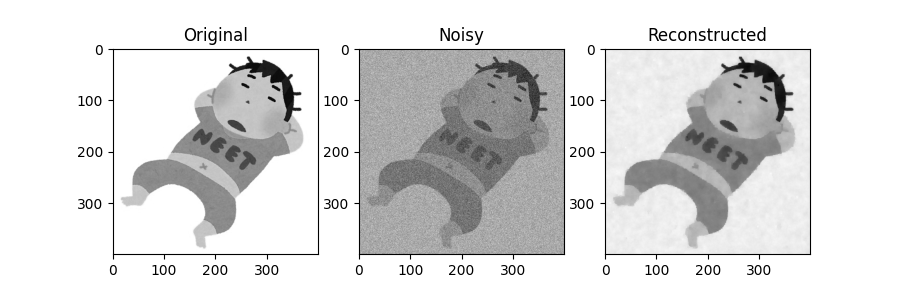
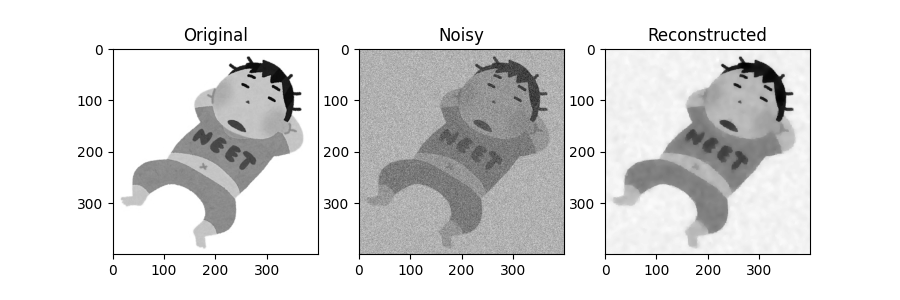
mod various

Changed region(s): [[0.4044, 0.63, 0.4356, 0.66]]

diff --git a/sparse/regularization_tv/tv_reg_splitbregman.py b/sparse/regularization_tv/tv_reg_splitbregman.py
@@ -42,7 +42,7 @@ def main():
                  
     CYCLE = 100
     MU = 5.0*10**(-2)
-    LAMBDA = 1#1.0*10**(-2)
+    LAMBDA = 1.0*10**(-2)
     TOL = 5.0*10**(-1)
 
     ## Initialization

diff --git a/sparse/regularization_l1/L1_splitbregman.md b/sparse/regularization_l1/L1_splitbregman.md
@@ -29,9 +29,7 @@ F&=\frac{1}{2}\sum_i(((a_i-|b_i|)+\lambda)^2 -2(a_i-|b_i|)\lambda-\lambda^2)+\la
 \\&(\because t_i=|b_i|-\lambda, a_i\geq0)
 \end{aligned}
 $$
-となる. ただし画像のノイズ除去などスパース化したい物理量が輝度値の場合, $\mathrm{Thr}$が正の値になることを暗に仮定しているため負の値を含む場合は陽に計算できないことに注意する.
-
-以上より
+となる. 以上より
 $$
 \begin{equation}
 F=\frac{1}{2}\sum_i(a_i-t_i)^2+\mathrm{const}
